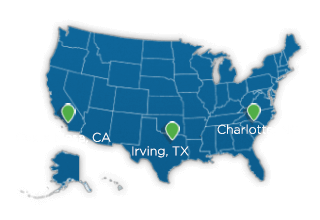
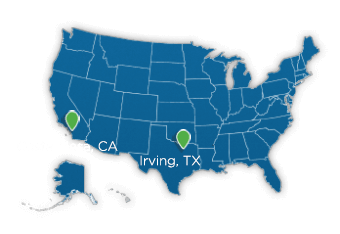
fixed carousels for mobile, updated map mobile

diff --git a/app/index.html b/app/index.html
@@ -212,7 +212,7 @@
                     <span>Licensed in 49 States</span>
                 </div>
                 <div class="legend legend-text"><img src="./images/map/green-location-icon.png" alt=""><span>Fulfillment Centers</span></div>
-                <a href="http://www.pacificunionloans.com/branch-locations/" class="extra-link button button-green">View All Branch Locations</a>
+                <a href="http://www.pacificunionloans.com/branch-locations/" class="extra-link button button-green" target="_blank">View All Branch Locations</a>
                 <a href="#5" class="arrow down"></a>
             </div>
             <div class="graph-wrapper">
@@ -417,7 +417,7 @@
                  <div class="text-content">
                     <h2>Leadership</h2>
                     <p>Pacific Union’s leadership team can best be summarized with one word – proven. <br>Not only are they industry professionals, they’re professionals with track records of success.</p>
-                     <a href="https://www.pacificunionfinancial.com/about/leadership"class="button">Learn More</a>
+                     <a href="https://www.pacificunionfinancial.com/about/leadership" class="button" target="_blank">Learn More</a>
                 </div>
 
             </div> <!-- end leadership-sec -->

diff --git a/app/styles/modules/_grid.sass b/app/styles/modules/_grid.sass
@@ -68,6 +68,7 @@
 			background-image: url(../images/grid/image1-mobile.jpg)
 		&-7
 			background-color: $green 
+			display: none
 		&-8
 			background-image: url(../images/grid/image5-mobile.jpg)
 		&-9 
@@ -129,7 +130,8 @@
 				background-color: $blue
 				background-image: none
 			&-7
-				background-color: $green 
+				background-color: $green
+				display: block
 			&-8
 				background-image: url(../images/grid/image5.jpg)
 			&-9 

diff --git a/app/styles/sections/_growth-sec.sass b/app/styles/sections/_growth-sec.sass
@@ -17,7 +17,7 @@
 		position: relative
 		background-color: transparent 
 		
-.quarter-block
+.quarter-block, .achievements-wrapper, .volume-wrapper, .graph-wrapper, .map-wrapper
 	display: none
 
 	
@@ -31,6 +31,9 @@
 			background-color: $green 
 			&:hover
 				background-color: transparent 
+	
+	.achievements-wrapper, .volume-wrapper, .graph-wrapper, .map-wrapper
+		display: block
 	
 	.quarter-block
 		display: block

diff --git a/app/styles/modules/_carousel-testimonial.sass b/app/styles/modules/_carousel-testimonial.sass
@@ -59,23 +59,3 @@
 	position: relative
 	height: 25px
 
-// .carouselbox button 
-// 	border: none
-// 	visibility: hidden
-
-// .active button 
-// 	visibility: visible
- 
-// .offscreen 
-// 	position: absolute
-// 	left: -2000px
-
-// .active .buttons 
-// 	padding: 5px 0
-// 	background: #eee
-// 	text-align: center
-// 	z-index: 10
-// 	position: relative
-
-	
-

diff --git a/app/styles/modules/_deferred.sass b/app/styles/modules/_deferred.sass
@@ -7,8 +7,8 @@
 @import achievements
 @import form
 @import button
-@import carousel2
+@import carousel-testimonial
 @import volume
 @import badges
 @import text-animate
-@import carousel3
+@import carousel-growth
